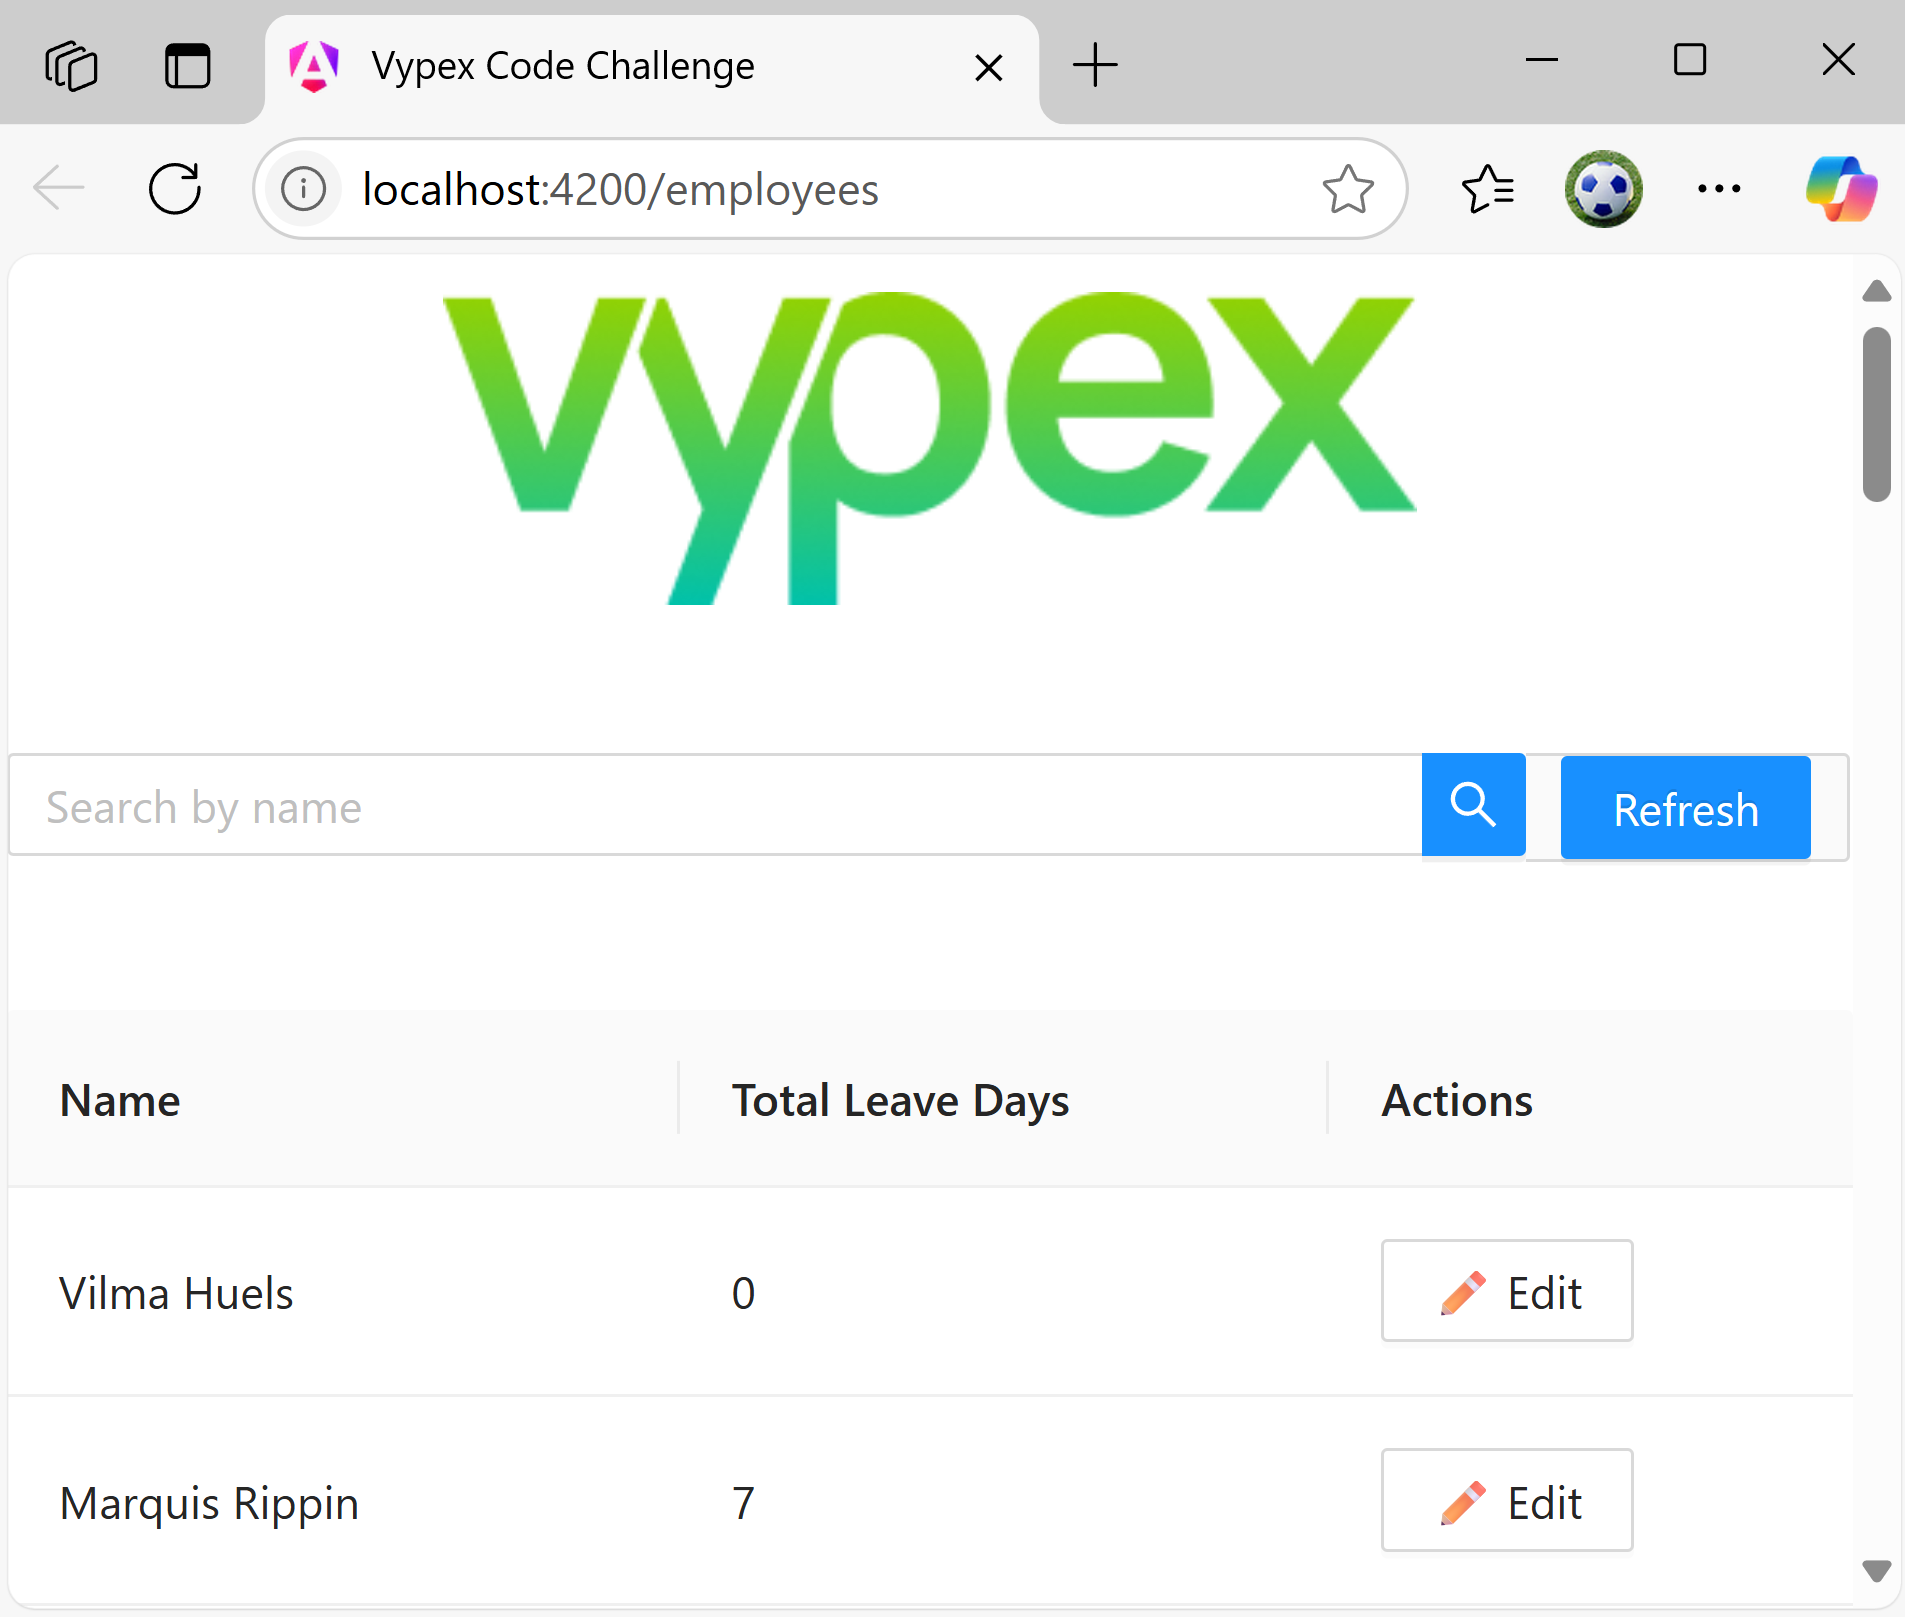
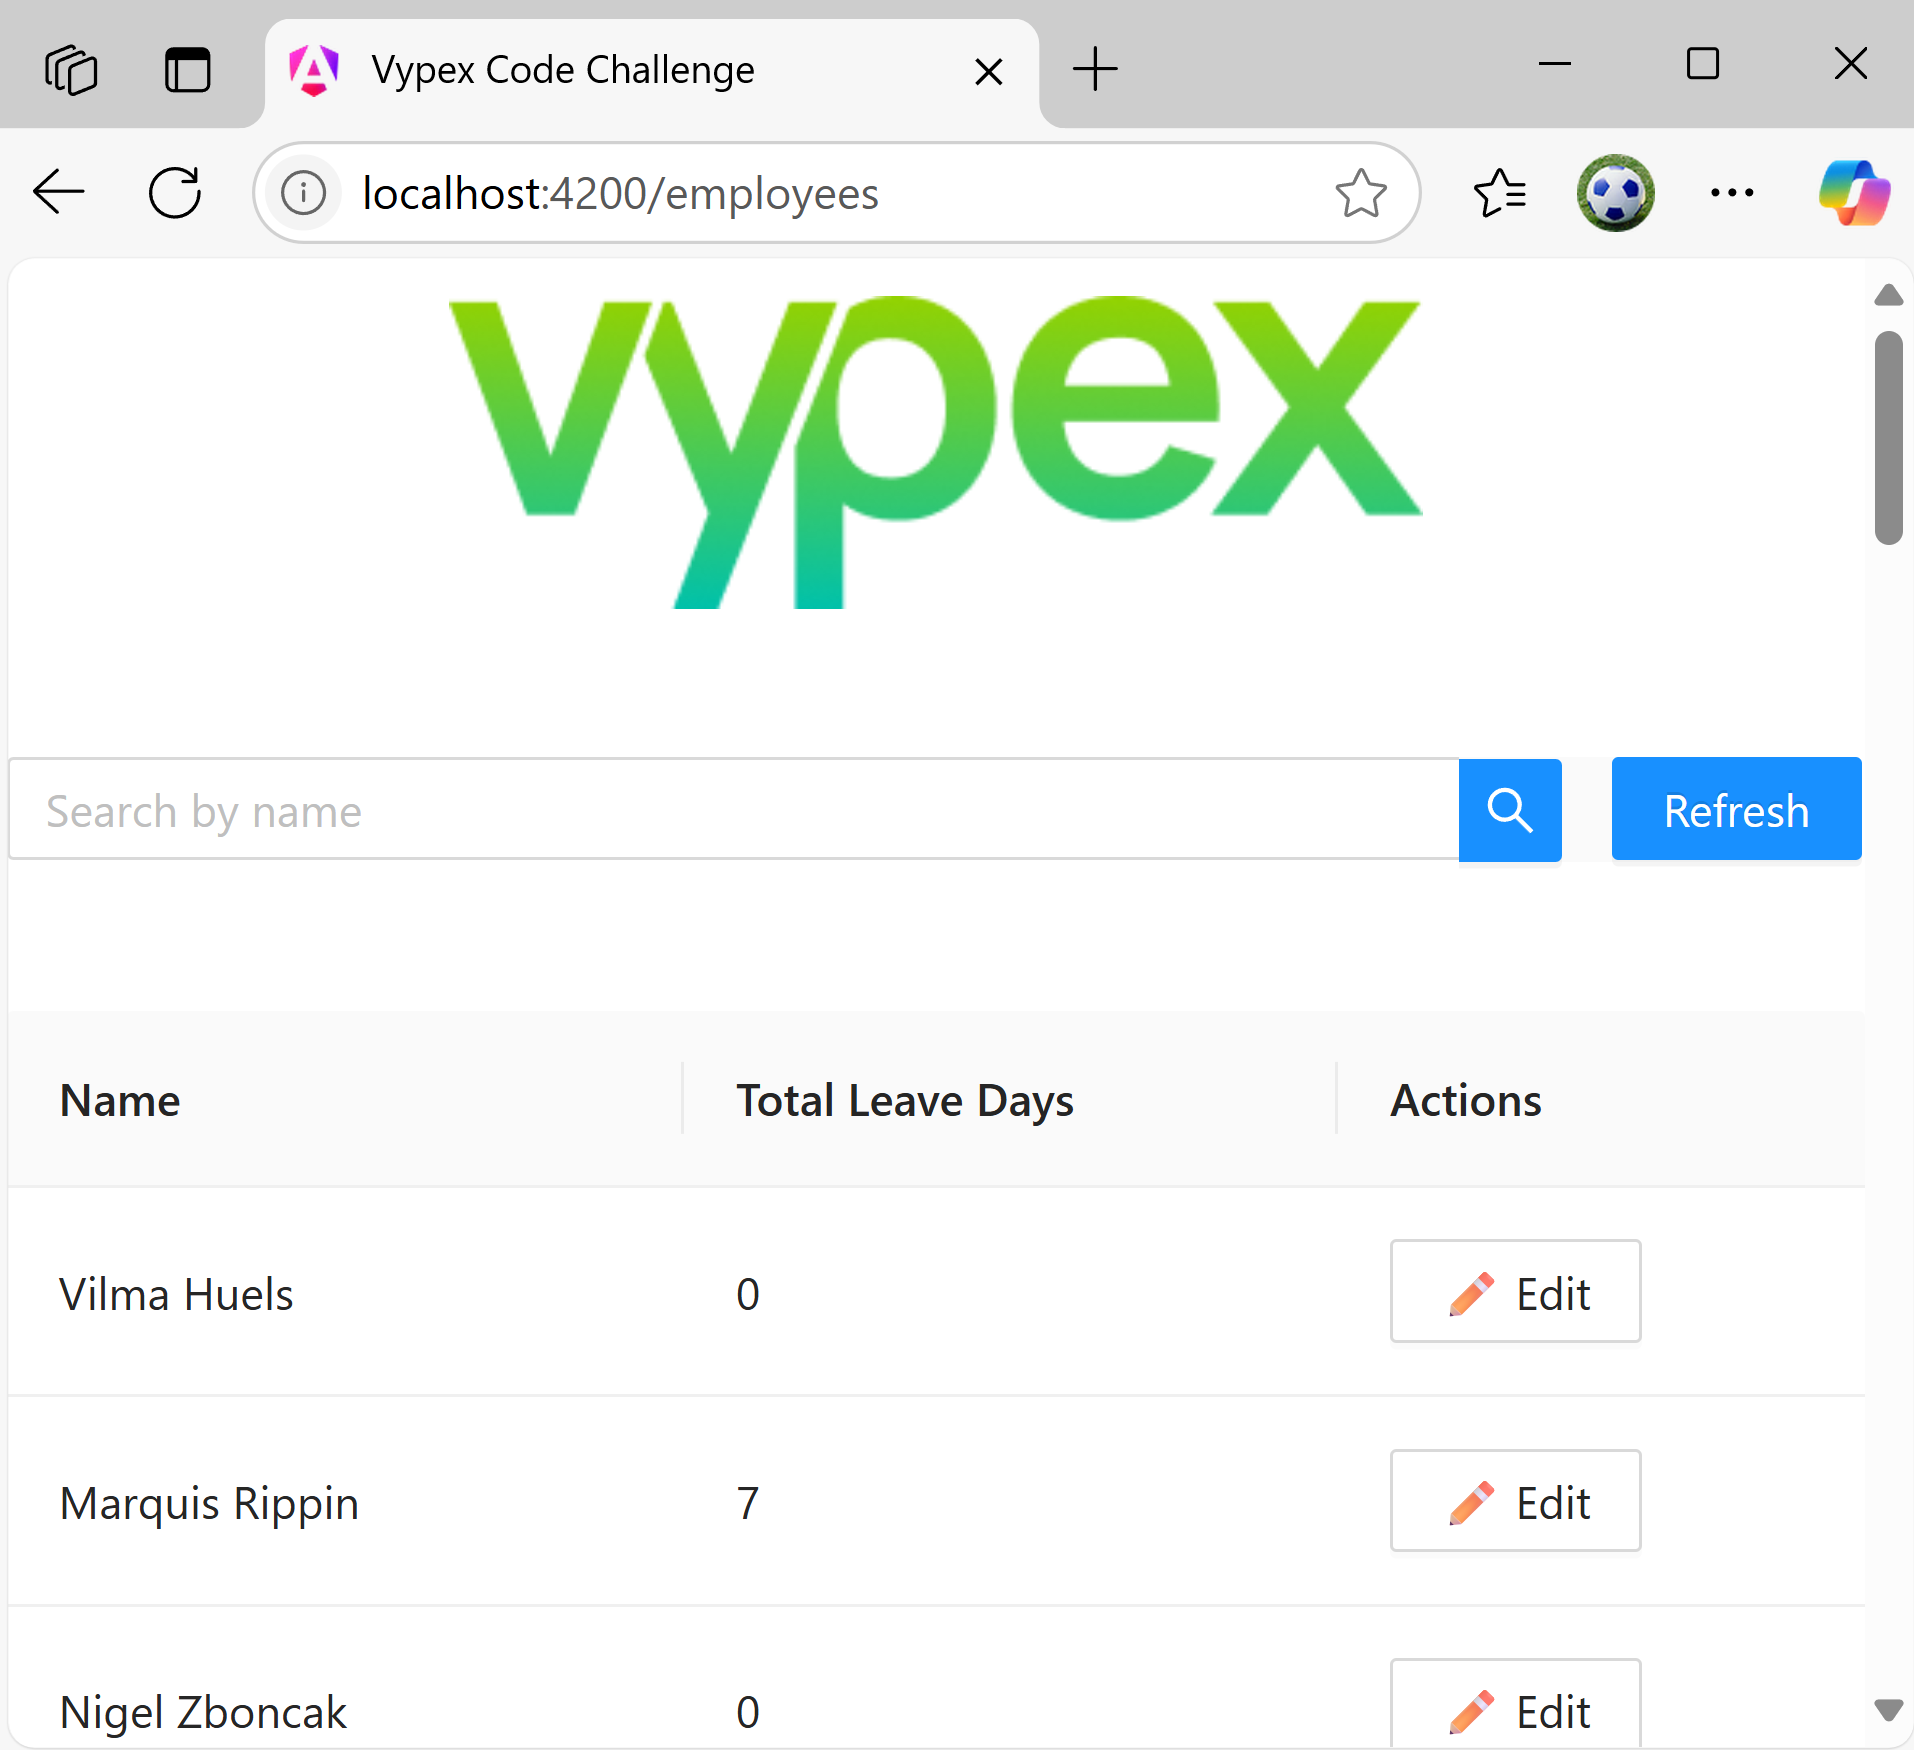
created search employees component.

diff --git a/Vypex.CodingChallenge.Frontend/src/app/employees/employees.component.ts b/Vypex.CodingChallenge.Frontend/src/app/employees/employees.component.ts
@@ -1,13 +1,10 @@
-import { AsyncPipe, CommonModule } from '@angular/common';
+import { AsyncPipe } from '@angular/common';
 import { Component, inject, OnInit } from '@angular/core';
-import { FormBuilder, ReactiveFormsModule } from '@angular/forms';
 import { NzAlertComponent } from 'ng-zorro-antd/alert';
 import { NzButtonComponent } from 'ng-zorro-antd/button';
-import { NzFormModule } from 'ng-zorro-antd/form';
-import { NzIconDirective, NzIconModule } from 'ng-zorro-antd/icon';
-import { NzInputModule } from 'ng-zorro-antd/input';
 import { NzTableModule } from 'ng-zorro-antd/table';
 import { EditEmployeeModal } from './edit-employee/edit-employee.modal';
+import { SearchEmployeesComponent } from './search-employees/search-employees.component';
 import { EmployeeApiService } from './services/employee-api.service';
 import { NotificationService } from './services/notification.service';
 
@@ -18,12 +15,7 @@ import { NotificationService } from './services/notification.service';
     NzButtonComponent,
     NzAlertComponent,
     AsyncPipe,
-    NzFormModule,
-    NzInputModule,
-    NzIconModule,
-    NzIconDirective,
-    CommonModule,
-    ReactiveFormsModule
+    SearchEmployeesComponent
   ],
   providers: [
     EditEmployeeModal
@@ -41,44 +33,27 @@ export class EmployeesComponent implements OnInit {
 
   private subscribe$ = this.employeeApiService.getEmployees();
 
-  private readonly fb = inject(FormBuilder);
-
-  protected readonly form = this.fb.group({
-    searchName: this.fb.nonNullable.control("")
-  })
-
   public ngOnInit() {
     this.load();
   }
 
+  error(error: any) {
+    this.reset(); // Reset employees state.
+    this.error$.next(error); // Emit error to parent component.
+  }
+
   load() {
-    this.form.setValue({ searchName: "" }); // Reset search name.
     this.reset(); // Reset error and employees state.
     this.notificationService.subscribe(this.subscribe$);//Fetch employees.
   }
 
-  search() {
+  search(searchName: string) {
     this.reset(); // Reset error and employees state.
-
-    let searchName = this.form.value.searchName!;
-    if (searchName.length === 0) {
-      this.error$.next({ message: 'Search name cannot be empty.' });
-      return;
-    }
-
-    if (searchName.length < 3) {
-      this.error$.next({ message: 'Search name must be at least 3 characters long.' });
-      return;
-    }
 
     this.notificationService.subscribe
       (
         this.employeeApiService.getEmployeesByName(searchName)
       );// Fetch employees by name.
-  }
-
-  onEnter() {
-    this.search();
   }
 
   reset() {

diff --git a/Vypex.CodingChallenge.Frontend/src/app/employees/search-employees/search-employees.component.ts b/Vypex.CodingChallenge.Frontend/src/app/employees/search-employees/search-employees.component.ts
@@ -1,0 +1,62 @@
+import { CommonModule } from '@angular/common';
+import { Component, inject, OnInit, output } from '@angular/core';
+import { FormBuilder, ReactiveFormsModule } from '@angular/forms';
+import { NzButtonComponent } from 'ng-zorro-antd/button';
+import { NzFormModule } from 'ng-zorro-antd/form';
+import { NzIconModule } from 'ng-zorro-antd/icon';
+import { NzInputModule } from 'ng-zorro-antd/input';
+
+@Component({
+  selector: 'app-search-employees',
+  imports: [
+    NzFormModule,
+    NzButtonComponent,
+    NzInputModule,
+    NzIconModule,
+    CommonModule,
+    ReactiveFormsModule
+  ],
+  templateUrl: './search-employees.component.html',
+  styleUrl: './search-employees.component.scss',
+  standalone: true
+})
+export class SearchEmployeesComponent implements OnInit {
+
+  onSearch = output<string>();
+  onRefresh = output<void>();
+  onError = output<any>();
+
+  private readonly fb = inject(FormBuilder);
+
+  protected readonly form = this.fb.group({
+    searchName: this.fb.nonNullable.control("")
+  })
+
+  ngOnInit(): void {
+    this.form.setValue({ searchName: "" }); // Reset search name.
+  }
+
+  search() {
+    let searchName = this.form.value.searchName!;
+    if (searchName.length === 0) {
+      this.onError.emit({ message: 'Search name cannot be empty.' });
+      return;
+    }
+
+    if (searchName.length < 3) {
+      this.onError.emit({ message: 'Search name must be at least 3 characters long.' });
+      return;
+    }
+
+    this.onSearch.emit(searchName); // Emit event to parent component.
+  }
+
+  onEnter() {
+    this.search();
+  }
+
+  refresh() {
+    this.form.setValue({ searchName: "" }); // Reset search name.
+    this.onRefresh.emit(); // Emit event to parent component.
+  }
+}

diff --git a/Vypex.CodingChallenge.Frontend/src/app/employees/employees.component.html b/Vypex.CodingChallenge.Frontend/src/app/employees/employees.component.html
@@ -3,18 +3,11 @@
 <nz-alert nzType="error" [nzMessage]="(error$ | async)?.message"></nz-alert>
 }
 <br />
-<form nz-form nzLayout="vertical" [formGroup]="form">
-  <nz-form-item>
-    <nz-input-group nzSearch [nzAddOnAfter]="suffixIconButton">
-      <input type="text" nz-input [formControl]="form.controls.searchName" (keyup.enter)="onEnter()" placeholder="Search by name" />
-    </nz-input-group>
-    <ng-template #suffixIconButton>
-      <button nz-button nzType="primary" nzSearch><nz-icon nzType="search" (click)="search()" /></button>
-      &nbsp;&nbsp;
-      <button nz-button nzType="primary" (click)="load()">Refresh</button>
-    </ng-template>
-  </nz-form-item>
-</form>
+<app-search-employees
+                      (onSearch)="search($event)"
+                      (onRefresh)="load()"
+                      (onError)="error($event)">
+</app-search-employees>
 <br />
 <nz-table nzTemplateMode>
   <thead>

diff --git a/Vypex.CodingChallenge.Frontend/src/app/employees/search-employees/search-employees.component.html b/Vypex.CodingChallenge.Frontend/src/app/employees/search-employees/search-employees.component.html
@@ -1,0 +1,16 @@
+<form nz-form nzLayout="vertical" [formGroup]="form">
+    <nz-form-item>
+        <nz-input-group nzSearch [nzAddOnAfter]="suffixIconButton">
+            <nz-form-control>
+                <input type="text" nz-input [formControl]="form.controls.searchName" (keyup.enter)="onEnter()" placeholder="Search by name" />
+            </nz-form-control>
+        </nz-input-group>
+        <ng-template #suffixIconButton>
+            <nz-form-control class="modal-buttons">
+                <button nz-button nzType="primary" nzSearch><nz-icon nzType="search" (click)="search()" /></button>
+                &nbsp;&nbsp;
+                <button nz-button nzType="primary" (click)="refresh()">Refresh</button>
+            </nz-form-control>
+        </ng-template>
+    </nz-form-item>
+</form>
